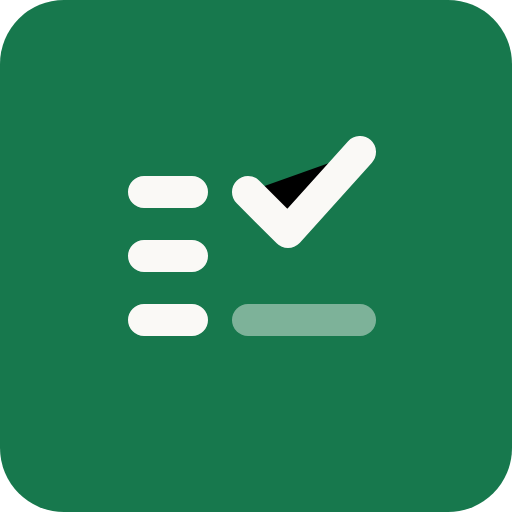
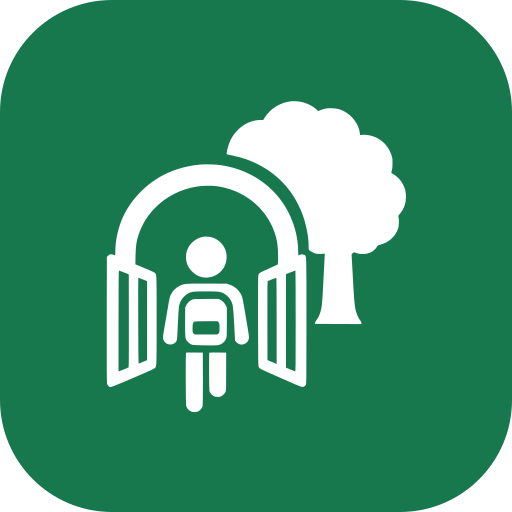
feat(interface): troca o ícone pelo aluno de mochila entrando no portão da escola (#274)
O ícone antigo, um quadrado verde com lista e marca de verificação, não
tinha relação com a escola. O novo é um desenho em duas cores sólidas,
verde da marca e branco: um aluno de mochila entra entre as duas folhas
abertas de um portão em arco, com um pé de oiti ao lado, sobre fundo
verde uniforme. O traçado vem da conversão em SVG da imagem de
referência da revisão.

O desenho mestre fica em design/icone/mestre.svg, com fundo sangrado e o
essencial dentro da zona segura do recorte redondo do Android. O favicon
vetorial usa o mesmo traçado com contorno branco mais grosso, para 16 e
32 pixels.

Os PNGs any, maskable e o ícone do iOS saem do mestre por
pnpm run icones:gerar, com sharp como dependência de desenvolvimento.
Os ícones any ganham cantos arredondados transparentes. A versão do
service worker sobe para renovar o cache, e um teste confere tamanho,
opacidade, paleta de duas cores e zona segura.

Assisted-by: Claude Code

Claude-Session: https://claude.ai/code/session_01RKSGqHeM2HxHYGe1tpmRfg

diff --git a/tests/unit/icones.test.ts b/tests/unit/icones.test.ts
@@ -1,0 +1,123 @@
+// Ícones do aplicativo: os arquivos do manifest existem com o tamanho declarado e os desenhos não usam recursos frágeis.
+import { readFileSync } from "node:fs";
+import path from "node:path";
+import { describe, expect, it } from "vitest";
+
+const RAIZ = process.cwd();
+const ler = (relativo: string) => readFileSync(path.join(RAIZ, relativo));
+
+interface IconeManifest {
+  src: string;
+  sizes: string;
+  purpose: string;
+}
+
+const manifest = JSON.parse(ler("public/manifest.webmanifest").toString("utf8")) as {
+  icons: IconeManifest[];
+};
+
+// IHDR do PNG: largura e altura nos bytes 16 a 23, tipo de cor no byte 25 (2 = RGB, 6 = RGBA).
+function cabecalhoPng(arquivo: Buffer) {
+  expect(arquivo.subarray(1, 4).toString("ascii")).toBe("PNG");
+  return { largura: arquivo.readUInt32BE(16), altura: arquivo.readUInt32BE(20), cor: arquivo[25] };
+}
+
+describe("ícones do manifest", () => {
+  it.each(manifest.icons.map((icone) => [icone.src, icone] as const))(
+    "%s tem o tamanho declarado",
+    (_src, icone) => {
+      const { largura, altura } = cabecalhoPng(ler(path.join("public", icone.src)));
+      expect(`${largura}x${altura}`).toBe(icone.sizes);
+    },
+  );
+
+  it("declara os ícones any e maskable nos dois tamanhos", () => {
+    for (const proposito of ["any", "maskable"]) {
+      expect(
+        manifest.icons.filter((icone) => icone.purpose === proposito).map((icone) => icone.sizes),
+      ).toEqual(["192x192", "512x512"]);
+    }
+  });
+
+  it("mantém opacos os ícones de fundo sangrado, que o sistema recorta", () => {
+    for (const arquivo of [
+      "icon-mascara-192.png",
+      "icon-mascara-512.png",
+      "apple-touch-icon.png",
+    ]) {
+      expect(cabecalhoPng(ler(path.join("public", arquivo))).cor).toBe(2);
+    }
+    expect(cabecalhoPng(ler("public/apple-touch-icon.png")).largura).toBe(180);
+  });
+});
+
+describe("desenhos vetoriais do ícone", () => {
+  const PROIBIDOS = /<(text|filter|image|foreignObject|script|style)\b|font-family|href=/i;
+
+  it.each([
+    ["design/icone/mestre.svg", "0 0 512 512"],
+    ["src/app/icon.svg", "0 0 64 64"],
+  ])("%s é quadrado, sem texto, filtro, imagem embutida ou script", (arquivo, caixa) => {
+    const svg = ler(arquivo).toString("utf8");
+    expect(svg).toContain(`viewBox="${caixa}"`);
+    expect(svg).not.toMatch(PROIBIDOS);
+  });
+
+  const VERDE = "#17784d";
+  const BRANCO = "#ffffff";
+
+  it.each(["design/icone/mestre.svg", "src/app/icon.svg"])(
+    "%s usa só verde e branco, sólidos e sem transparência",
+    (arquivo) => {
+      const svg = ler(arquivo).toString("utf8");
+      const cores = new Set(
+        (svg.match(/#[0-9a-f]{3,8}\b/gi) ?? []).map((cor) => cor.toLowerCase()),
+      );
+      expect([...cores].sort()).toEqual([VERDE, BRANCO].sort());
+      expect(svg).not.toMatch(/Gradient|opacity|rgba?\(|hsla?\(|mask|filter/i);
+    },
+  );
+
+  it("mantém nos PNGs gerados só as duas cores do desenho, fora a suavização das bordas", async () => {
+    const sharp = (await import("sharp")).default;
+    const { data, info } = await sharp(ler("public/icon-mascara-512.png"))
+      .removeAlpha()
+      .raw()
+      .toBuffer({ resolveWithObject: true });
+    const alvos = [
+      [0x17, 0x78, 0x4d],
+      [0xff, 0xff, 0xff],
+    ];
+    let puros = 0;
+    for (let i = 0; i < data.length; i += info.channels) {
+      if (alvos.some((a) => a.every((v, k) => data[i + k] === v))) puros++;
+    }
+    // Mais de 95% dos pixels são exatamente verde ou branco; o resto é a borda suavizada.
+    expect(puros / (data.length / info.channels)).toBeGreaterThan(0.95);
+  });
+
+  it("mantém o desenho branco dentro da zona segura das máscaras circulares do Android", async () => {
+    const sharp = (await import("sharp")).default;
+    const { data, info } = await sharp(ler("public/icon-mascara-512.png"))
+      .removeAlpha()
+      .raw()
+      .toBuffer({ resolveWithObject: true });
+    // Círculo de 40% da largura (raio 204,8 px em 512), a zona segura da especificação de ícones maskable.
+    const centro = (info.width - 1) / 2;
+    const raioSeguro = info.width * 0.4;
+    let fora = 0;
+    for (let y = 0; y < info.height; y++) {
+      for (let x = 0; x < info.width; x++) {
+        const i = (y * info.width + x) * info.channels;
+        const branco = data[i] === 0xff && data[i + 1] === 0xff && data[i + 2] === 0xff;
+        if (branco && Math.hypot(x - centro, y - centro) > raioSeguro) fora++;
+      }
+    }
+    expect(fora).toBe(0);
+  });
+
+  it("pré-cacheia no service worker todos os ícones do manifest", () => {
+    const sw = ler("public/sw.js").toString("utf8");
+    for (const icone of manifest.icons) expect(sw).toContain(icone.src);
+  });
+});

diff --git a/public/sw.js b/public/sw.js
@@ -1,6 +1,6 @@
 // Service worker: casca offline e avisos push sem dados de estudantes.
 // A API nunca é cacheada; a navegação tenta a rede antes da página offline.
-const VERSAO = "frequenciapp-6";
+const VERSAO = "frequenciapp-7";
 const CACHE = `${VERSAO}-estatico`;
 const ATIVOS = [
   "/offline.html",

diff --git a/CHANGELOG.md b/CHANGELOG.md
@@ -79,6 +79,8 @@ Enquanto a primeira versão pública não é lançada, a versão do projeto perm
 
 ### Alterado
 
+- Ícone do aplicativo novo, em duas cores sólidas, verde da marca e branco: um aluno de mochila entra entre as duas folhas abertas de um portão em arco, e um pé de oiti de copa grande fica ao lado, sobre fundo verde uniforme. O desenho vem da conversão em SVG da imagem de referência da revisão, usada como traçado sem retoques de forma, e fica em `design/icone/mestre.svg` com fundo sangrado e tudo o que importa dentro da zona segura do recorte redondo do Android. Os PNGs `any`, `maskable` e o ícone da tela inicial do iOS saem dele por `pnpm run icones:gerar`, e o favicon vetorial em `src/app/icon.svg` usa o mesmo traçado com contorno branco mais grosso, para 16 e 32 pixels. Os ícones `any` passam a ter cantos arredondados transparentes, no lugar do canto branco. A versão do service worker sobe para renovar o cache.
+
 - Chamada e Chamada Parcial deixam de mostrar o número do aluno à esquerda do nome, o que libera espaço para os nomes no celular. A lista continua na ordem da chamada.
 
 - Seletores da Chamada mais compactos, com seleção discreta e anéis que mantêm os segmentos por turma mesmo em 100%. As fatias concluídas ficam verdes e as pendentes vermelhas.

diff --git a/docs/arquitetura.md b/docs/arquitetura.md
@@ -102,7 +102,7 @@ src/
     page.tsx                página única: sessão, pré-busca e shell
     error.tsx               fronteira de erro amigável
     not-found.tsx           404
-    icon.svg                ícone do aplicativo
+    icon.svg                favicon vetorial do aplicativo (aluno de mochila no portão, com o oiti)
     layout.tsx              metadados, manifest da PWA e fontes
   components/
     aplicacao.tsx           shell com visões, barra lateral e menu responsivo
@@ -163,9 +163,10 @@ src/
 prisma/                     schema e migrações
 prisma.config.ts            configuração do CLI do Prisma 7
 generated/                  cliente Prisma gerado (fora do git)
-public/                     manifest, service worker, offline e ícones
+public/                     manifest, service worker, offline e ícones em PNG (gerados)
+design/icone/               desenho mestre do ícone em SVG; `pnpm run icones:gerar` produz os PNGs de `public/`
 docker/                     entrypoint e migrador do contêiner
-scripts/                    criar-admin, criar-coordenacao e seed
+scripts/                    criar-admin, criar-coordenacao, seed e gerar-icones
 docs/                       esta documentação
 tests/                      Vitest (unidade e contratos)
 ```

diff --git a/AGENTS.md b/AGENTS.md
@@ -32,6 +32,7 @@ Pré-requisitos: Node.js 20.19 ou superior e PostgreSQL 17 (ou Docker Compose). 
 - `pnpm run test:pwa` roda o próprio `pnpm run build && pnpm start`, porque o service worker precisa ser o de produção.
 - Banco: `pnpm run db:migrate` em desenvolvimento, `pnpm run db:deploy` em produção. Nunca edite uma migração aplicada; crie uma nova com `pnpm exec prisma migrate dev --name ajuste`. O cliente Prisma em `generated/` fica fora do Git; `pnpm run db:generate` ou o `postinstall` o regenera.
 - Etiquetas: `pnpm run etiquetas:sync` cria ou atualiza as etiquetas do GitHub conforme `.github/labels.json`.
+- Ícones: o desenho mestre é `design/icone/mestre.svg` e os PNGs de `public/` saem dele por `pnpm run icones:gerar`; não edite os PNGs à mão. Ao trocar qualquer ícone, suba a `VERSAO` em `public/sw.js`.
 - Capturas do README: `pnpm run capturas:readme` ou `pnpm run capturas:readme:docker`, com o aplicativo no ar e a semente aplicada. Os PNGs ficam em `docs/imagens/` e não são editados à mão; capturas locais vão para `docs/imagens/locais/`.
 
 ## Ferramentas externas
